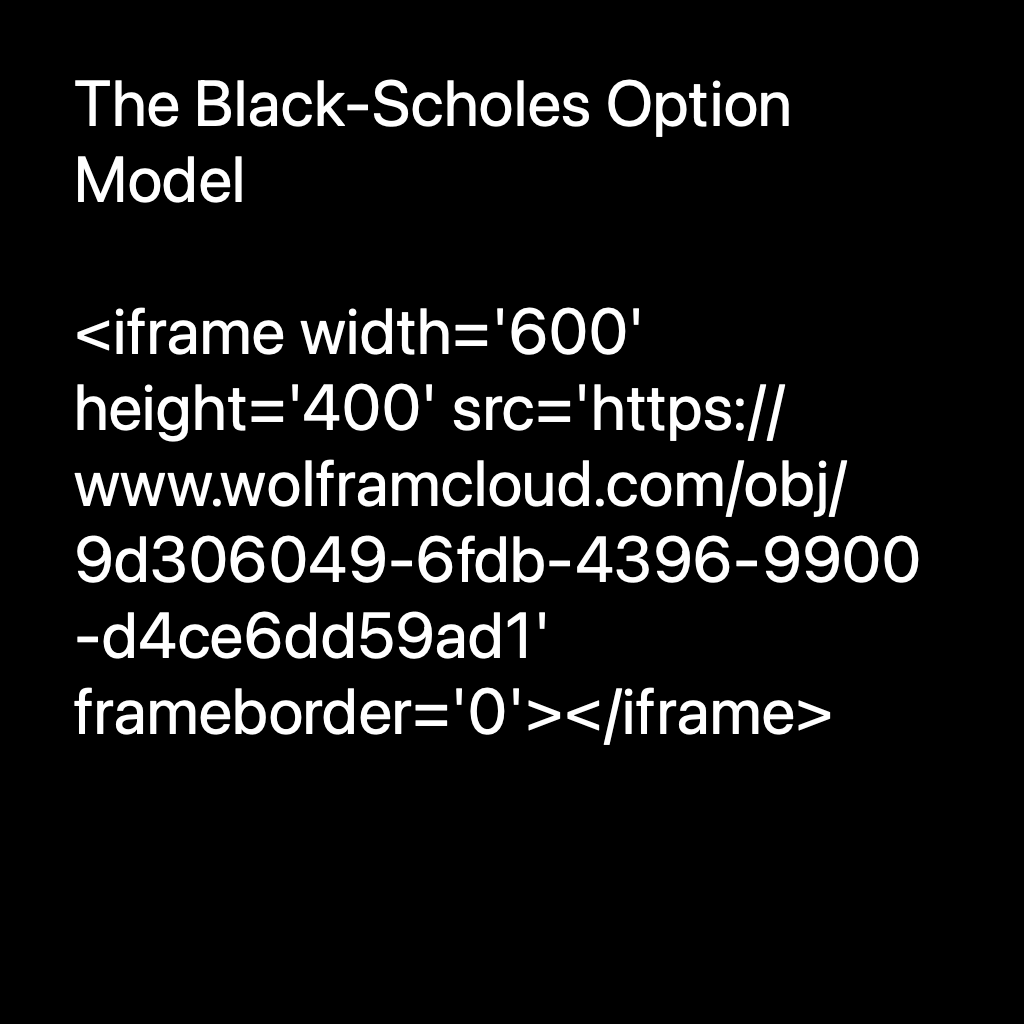
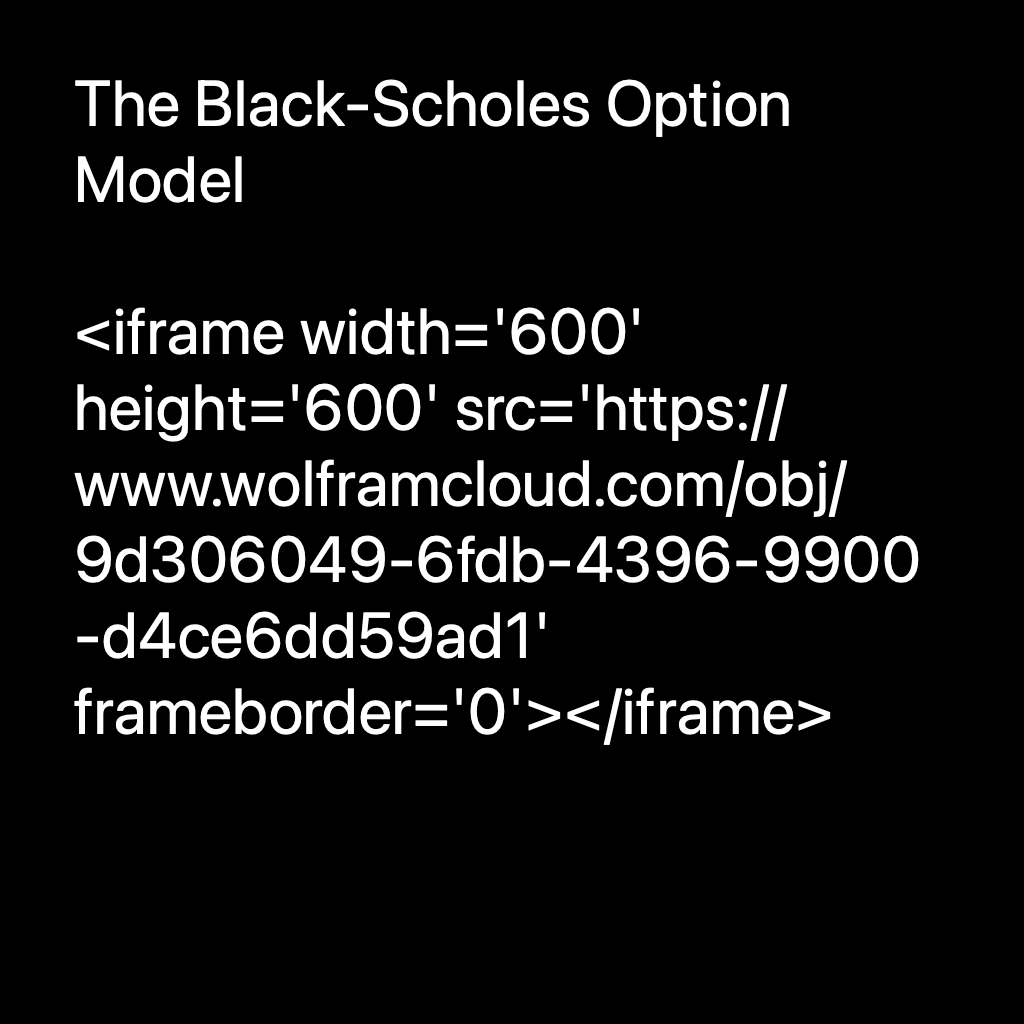
automated upload

Changed region(s): [[0.2812, 0.375, 0.5312, 0.4375], [0.5625, 0.375, 0.7812, 0.4375]]

diff --git a/1C5E86C9-8677-4CC0-BAE9-A2607107F91E/index.html b/1C5E86C9-8677-4CC0-BAE9-A2607107F91E/index.html
@@ -163,7 +163,7 @@
 <div class="content">
   
   
-  <iframe width='600' height='400' src='https://www.wolframcloud.com/obj/9d306049-6fdb-4396-9900-d4ce6dd59ad1' frameborder='0'></iframe>
+  <iframe width='600' height='600' src='https://www.wolframcloud.com/obj/9d306049-6fdb-4396-9900-d4ce6dd59ad1' frameborder='0'></iframe>
 
 </div>
 

diff --git a/options/index.html b/options/index.html
@@ -163,7 +163,7 @@
 <div class="content">
   
   
-  <iframe width='600' height='400' src='https://www.wolframcloud.com/obj/9d306049-6fdb-4396-9900-d4ce6dd59ad1' frameborder='0'></iframe>
+  <iframe width='600' height='600' src='https://www.wolframcloud.com/obj/9d306049-6fdb-4396-9900-d4ce6dd59ad1' frameborder='0'></iframe>
 
 </div>
 
